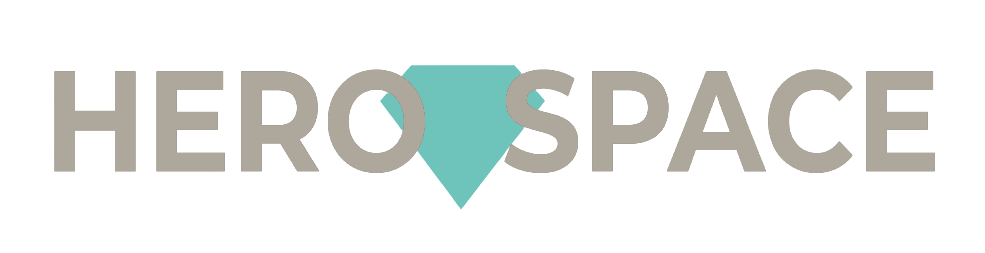
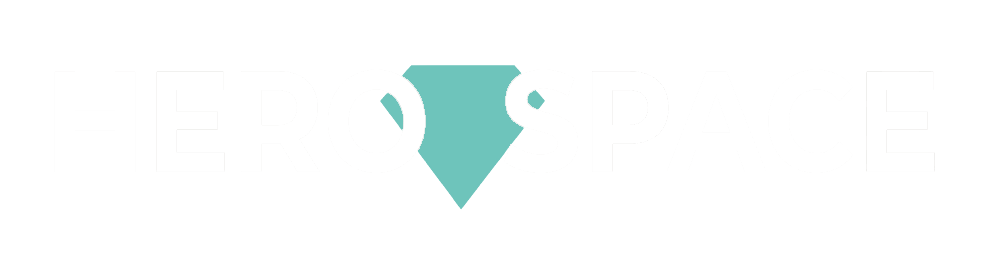
added gradient to links

Changed region(s): [[0.4873, 0.2767, 0.9746, 0.6917], [0.0305, 0.2767, 0.4569, 0.6917]]

diff --git a/src/routes/index.svelte b/src/routes/index.svelte
@@ -1,15 +1,16 @@
 <script type="typescript">
 	var showMoreSkillsButton = true;
 	var skills = [
-		{ name: 'HTML & CSS', progress: 95, icon: 'devicon-html5-plain' },
+		{ name: 'NextJS', progress: 40, icon: 'devicon-nextjs-plain' },
 		{ name: 'Flutter', progress: 80, icon: 'devicon-flutter-plain' },
-		{ name: 'Svelte Kit', progress: 60, icon: 'devicon-svelte-plain' },
-		{ name: 'Linux', progress: 60, icon: 'devicon-linux-plain' },
-		{ name: 'Docker', progress: 70, icon: 'devicon-docker-plain' }
+		{ name: 'Express', progress: 60, icon: 'devicon-express-original' },
+		{ name: 'Typescript', progress: 60, icon: 'devicon-typescript-plain' },
+		{ name: 'Svelte Kit', progress: 70, icon: 'devicon-svelte-plain' },
+		{ name: 'SQL', progress: 70, icon: 'devicon-mysql-plain' }
 	];
 
 	var moreSkills = [
-		{ name: 'SQL', progress: 50, icon: 'devicon-mysql-plain' },
+		{ name: 'Docker', progress: 80, icon: 'devicon-docker-plain' },
 		{ name: 'Appwrite', progress: 90, icon: 'devicon-appwrite-plain' }
 	];
 
@@ -26,7 +27,7 @@
 			title: 'Chilefäud app',
 			desc: 'An app for my old school, to access the intern website over the app, also built with Flutter.',
 			buttonText: 'Download Chilefäud',
-			buttonPath: 'https://github.com/generalxhd/chilefaeud'
+			buttonPath: 'https://github.com/stonith404/chilefaeud'
 		},
 		{
 			image: 'images/herospace.png',
@@ -76,8 +77,8 @@
 				<p class="text-left bigP">
 					Hi, <br /> My name is Elias Schneider and I'm learning software engineering at
 					<a class="bigP" target="blank" href="https://noseryoung.ch">Noser Young</a>. <br />
-					<br />I love technology and open source. At the moment, I'm mostly delving into Docker, Svelte and Flutter, 
-					but I want to learn many more programming languages and technologies.
+					<br />I love technology and always want to be up to date with this topic. At the moment
+					I'm learning NextJS, Flutter and everything about Web3.
 				</p>
 
 				<hr class="divider mt-5" />
@@ -86,7 +87,7 @@
 					><i class="fas fa-at" /></a
 				>
 
-				<a class="btn btn-primary iconButton" target="blank" href="https://github.com/generalxhd"
+				<a class="btn btn-primary iconButton" target="blank" href="https://github.com/stonith404"
 					><i class="fab fa-github" /></a
 				>
 				<a

diff --git a/static/global.css b/static/global.css
@@ -9,7 +9,7 @@ h3,
 h4,
 h5,
 h6 {
-	color: #aea79c;
+	color: white;
 	font-family: 'Menlo', sans-serif;
 	font-weight: bold;
 }
@@ -34,6 +34,8 @@ h2 {
 
 body {
 	background-color: #111313 !important;
+	font-family: 'Menlo', sans-serif !important;
+	color: whitesmoke !important;
 }
 
 hr.divider {
@@ -44,20 +46,31 @@ hr.divider {
 	font-size: 22px;
 }
 
-body a {
-	color: white;
+body a,
+.btn {
 	font-family: 'Menlo', sans-serif;
+	background: linear-gradient(-45deg, #f12711, #f5af19);
+	background-size: 300%;
+	background-clip: text;
+	-webkit-text-fill-color: transparent;
+	animation: animated_text 20s ease-in-out infinite;
+}
+
+@keyframes animated_text {
+	0% {
+		background-position: 0px 50%;
+	}
+	50% {
+		background-position: 100% 50%;
+	}
+	100% {
+		background-position: 0px 50%;
+	}
 }
 
 body a:hover {
 	color: #f5deb3;
 	font-family: 'Menlo', sans-serif;
-}
-
-p,
-small {
-	font-family: 'Menlo', sans-serif;
-	color: #aea79c;
 }
 
 section {
@@ -73,7 +86,6 @@ body .iconButton {
 body .btn-primary {
 	background-color: transparent;
 	border: transparent;
-	color: wheat;
 	font-family: 'Menlo';
 }
 
@@ -82,7 +94,7 @@ body .btn-primary:hover,
 .btn-primary:focus {
 	outline: none;
 	box-shadow: none !important;
-	background-color: wheat !important;
+	background-color: whitesmoke !important;
 	border: transparent;
 	color: black !important;
 	border-radius: 10px;
@@ -105,7 +117,7 @@ body .card {
 
 .pb-image {
 	border-radius: 50px;
-	background: #aea79c;
+	background: whitesmoke;
 }
 
 body .progress {
@@ -115,12 +127,12 @@ body .progress {
 body .progress-bar {
 	margin-right: -15px;
 	margin-left: -15px;
-	background-color: #aea79c;
+	background-color: whitesmoke;
 	color: #212529;
 }
 
 i {
-	color: #aea79c;
+	color: whitesmoke;
 }
 
 .text-shadow {
